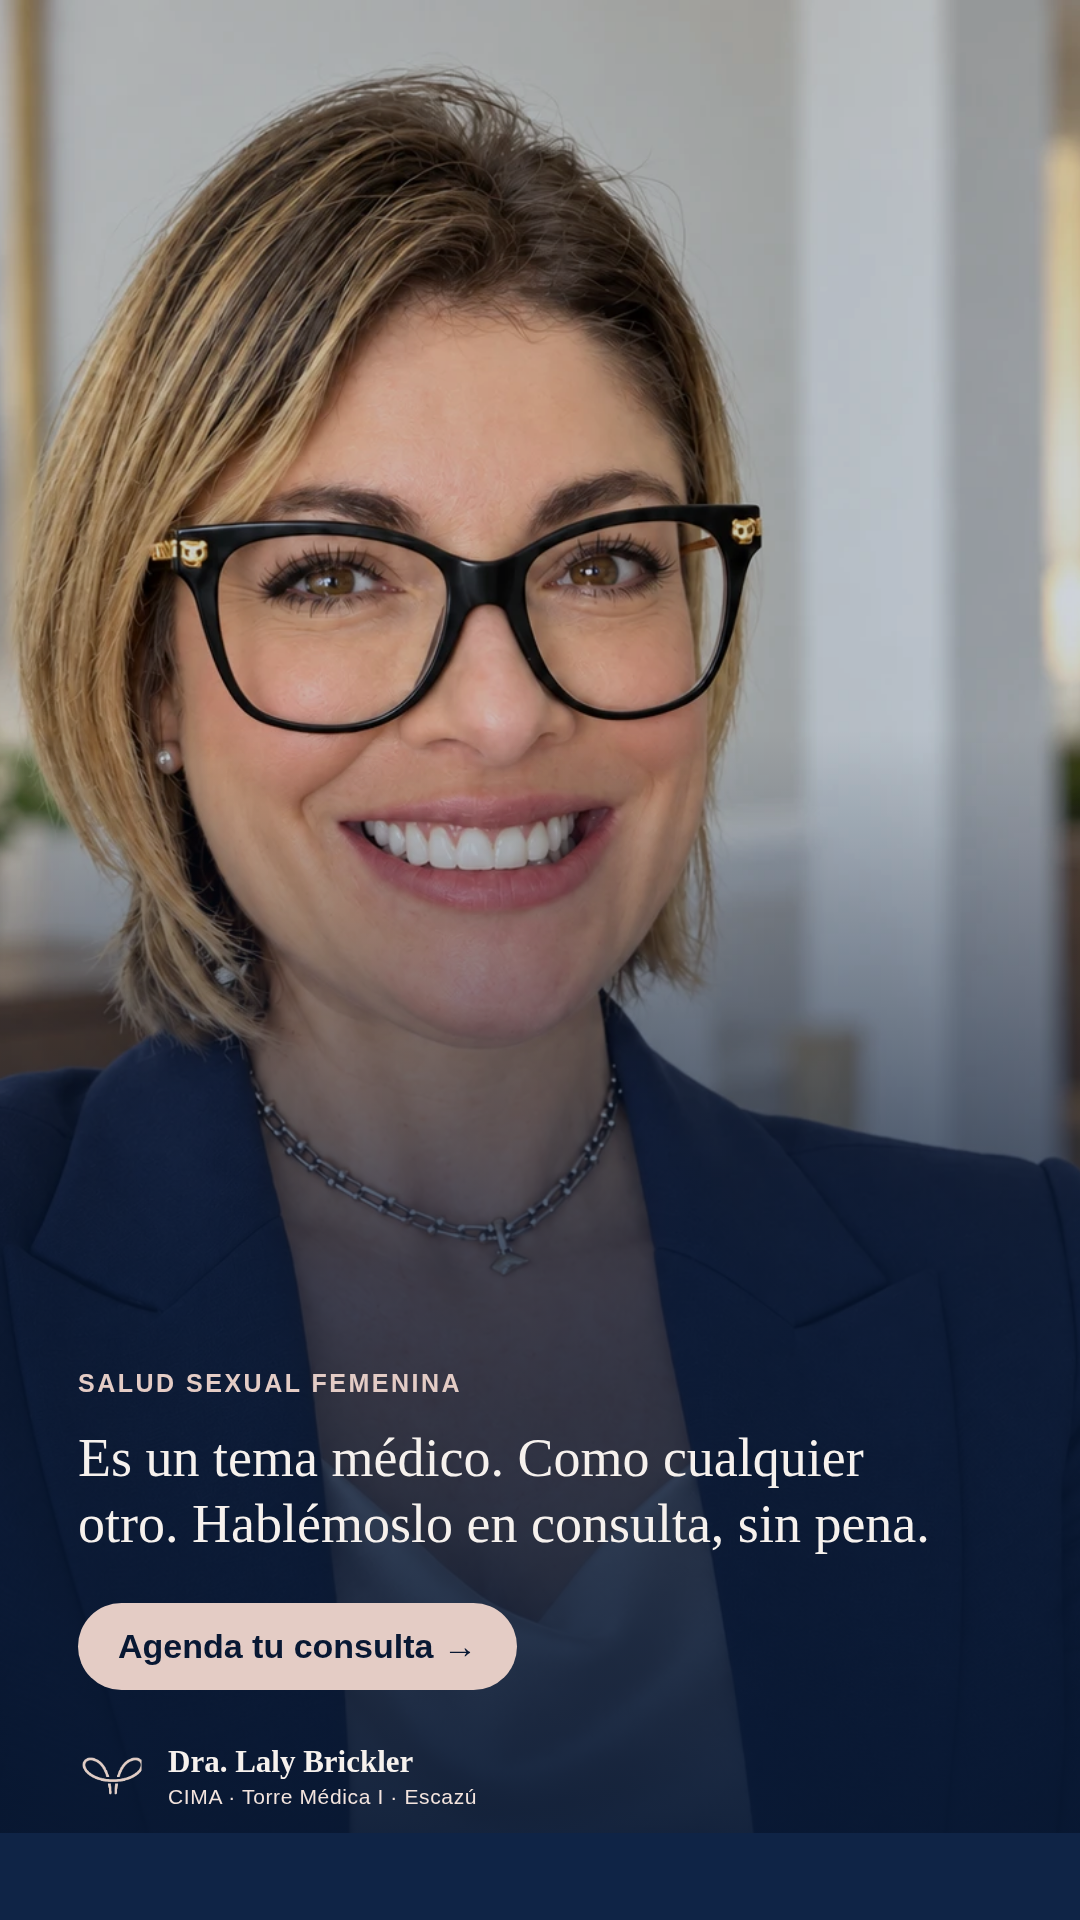
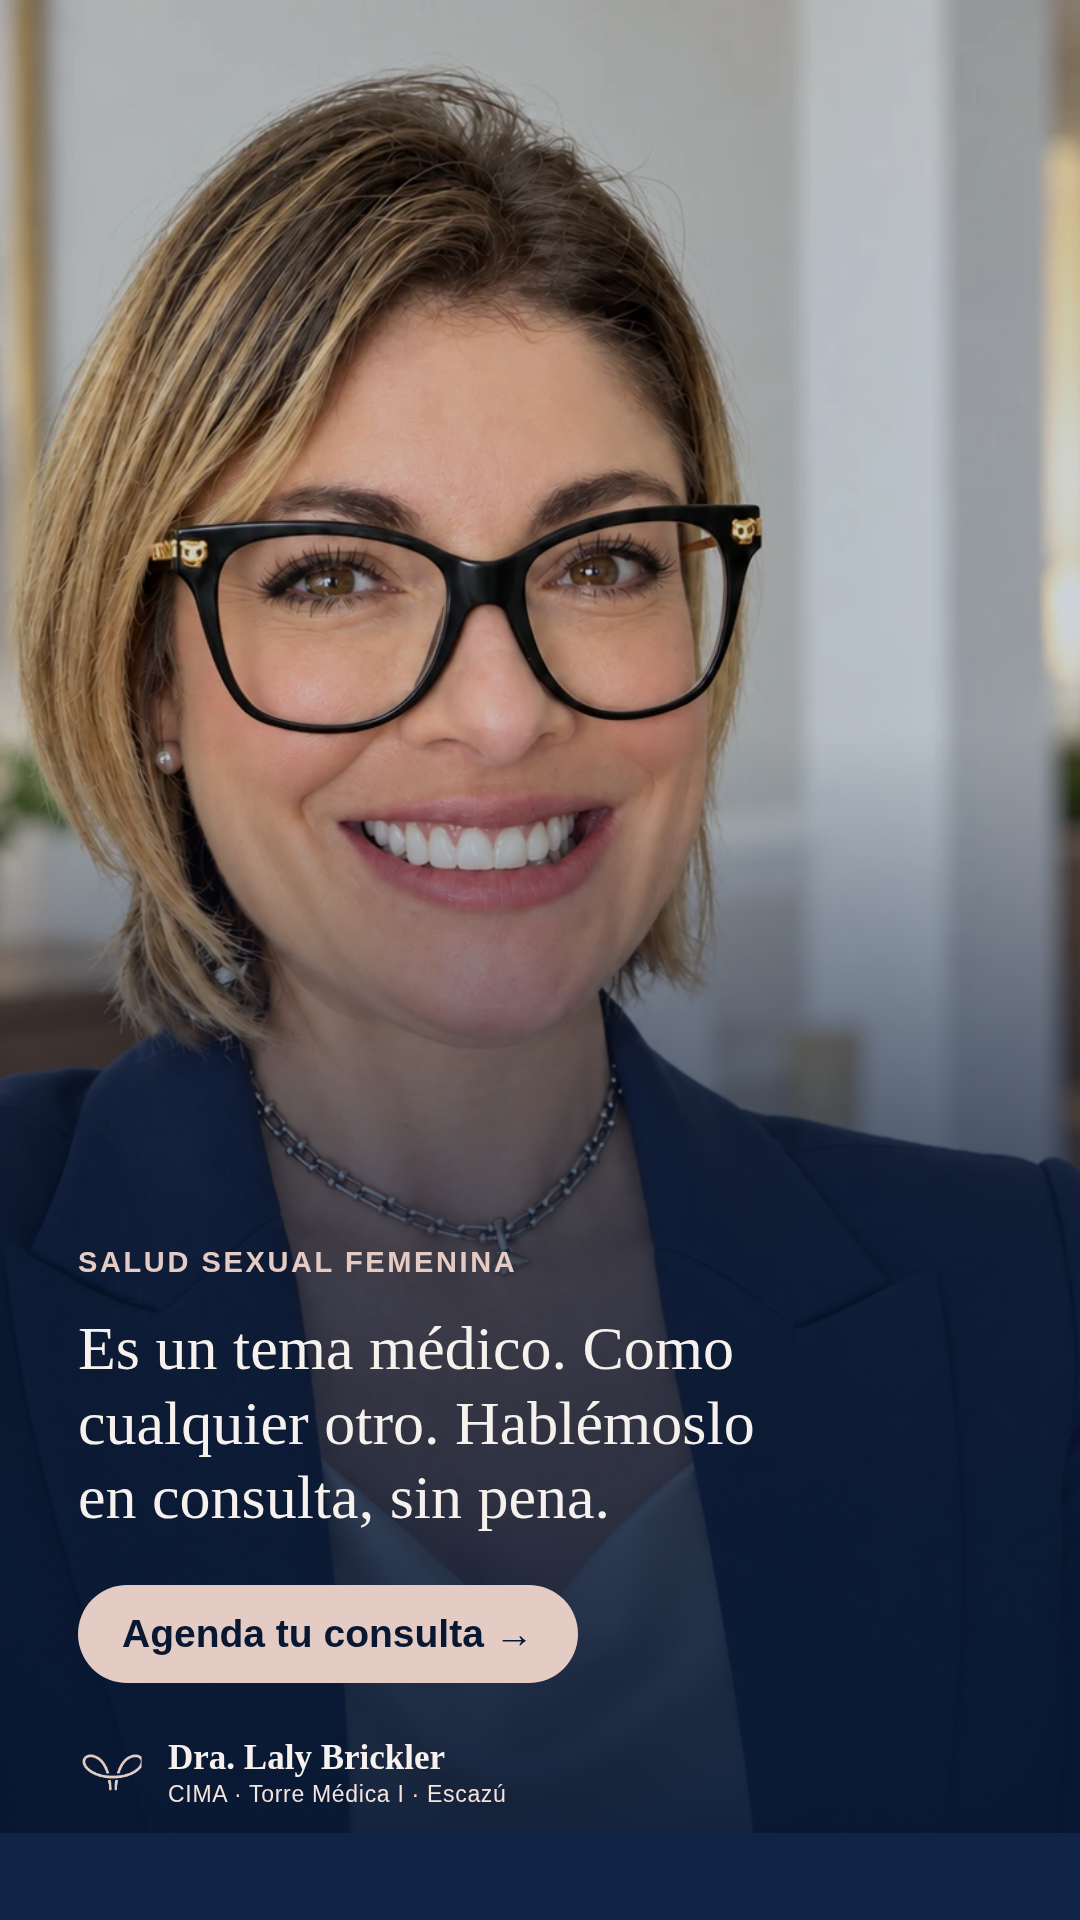
Enlarge type across the "deseo sexual sin pena" reel slides
Bump headline, eyebrow, cause-card and CTA font sizes for a more
legible read on feed-sized thumbnails, verified to still fit
within each 1080x1920 frame.

Claude-Session: https://claude.ai/code/session_01LtTLwZrPZbyahK5aD18j7d

Changed region(s): [[0.0611, 0.6562, 0.8556, 0.9375]]

diff --git a/assets/export-libido/slide-2-causas.html b/assets/export-libido/slide-2-causas.html
@@ -11,10 +11,10 @@ html,body{width:1080px;height:1920px;overflow:hidden;background:#0F2446;font-fam
 .frame-photo-top::after{content:"";position:absolute;inset:0;background:linear-gradient(180deg, rgba(8,24,51,.55) 0%, rgba(8,24,51,0) 16%, rgba(15,36,70,0) 48%, #0F2446 100%)}
 .brand{position:absolute;top:64px;left:64px;display:flex;align-items:center;gap:16px;z-index:3}
 .brand img{width:48px;height:auto;display:block}
-.brand span{font-size:21px;color:#F3E4DE;letter-spacing:.03em;font-weight:600}
+.brand span{font-size:23px;color:#F3E4DE;letter-spacing:.03em;font-weight:600}
 
 .body{position:relative;flex:1;z-index:2;display:flex;flex-direction:column;justify-content:center;align-items:center;padding:0 80px 40px;text-align:center}
-.eyebrow{color:#E4CCC5;font-size:26px;letter-spacing:.09em;text-transform:uppercase;font-weight:700;margin-bottom:30px}
+.eyebrow{color:#E4CCC5;font-size:30px;letter-spacing:.08em;text-transform:uppercase;font-weight:700;margin-bottom:34px}
 
 .causes{display:flex;flex-direction:column;gap:20px;width:100%;max-width:780px}
 .cause{
@@ -26,14 +26,14 @@ html,body{width:1080px;height:1920px;overflow:hidden;background:#0F2446;font-fam
   text-align:left;
 }
 .cause .n{
-  font-family:'Fraunces',Georgia,serif;font-weight:600;font-size:27px;
+  font-family:'Fraunces',Georgia,serif;font-weight:600;font-size:31px;
   color:#0F2446;background:#E4CCC5;
   width:50px;height:50px;border-radius:50%;
   display:flex;align-items:center;justify-content:center;flex:none;
 }
-.cause .t{font-family:'Fraunces',Georgia,serif;color:#F6F1ED;font-size:33px;font-weight:600}
+.cause .t{font-family:'Fraunces',Georgia,serif;color:#F6F1ED;font-size:39px;font-weight:600}
 
-.not-psych{margin-top:40px;font-family:'Fraunces',Georgia,serif;font-style:italic;color:#E4CCC5;font-size:27px;text-align:center;max-width:740px;line-height:1.4}
+.not-psych{margin-top:44px;font-family:'Fraunces',Georgia,serif;font-style:italic;color:#E4CCC5;font-size:31px;text-align:center;max-width:740px;line-height:1.4}
 </style></head>
 <body>
 <div class="frame">

diff --git a/assets/export-libido/slide-3-cta.html b/assets/export-libido/slide-3-cta.html
@@ -11,14 +11,14 @@ html,body{width:1080px;height:1920px;overflow:hidden;background:#0F2446;font-fam
 .photo-tint{position:absolute;inset:0;background:#0F2446;opacity:.2;mix-blend-mode:multiply;z-index:1}
 .photo-scrim{position:absolute;inset:0;background:linear-gradient(180deg, rgba(8,24,51,0) 0%, rgba(8,24,51,0) 38%, rgba(8,24,51,.7) 66%, rgba(8,24,51,.97) 100%);z-index:1}
 .body{position:absolute;inset:0;z-index:2;display:flex;flex-direction:column;justify-content:flex-end;padding:0 78px 110px}
-.eyebrow{color:#E4CCC5;font-size:25px;letter-spacing:.1em;text-transform:uppercase;font-weight:700;margin-bottom:28px}
-.cta-head{font-family:'Fraunces',Georgia,serif;color:#F6F1ED;font-size:54px;line-height:1.22;font-weight:500;max-width:880px;text-wrap:balance;margin-bottom:46px}
-.cta-pill{display:inline-flex;align-items:center;gap:16px;background:#E4CCC5;color:#081833;font-weight:700;font-size:34px;padding:24px 40px;border-radius:999px;width:fit-content}
+.eyebrow{color:#E4CCC5;font-size:29px;letter-spacing:.09em;text-transform:uppercase;font-weight:700;margin-bottom:32px}
+.cta-head{font-family:'Fraunces',Georgia,serif;color:#F6F1ED;font-size:62px;line-height:1.2;font-weight:500;max-width:900px;text-wrap:balance;margin-bottom:50px}
+.cta-pill{display:inline-flex;align-items:center;gap:16px;background:#E4CCC5;color:#081833;font-weight:700;font-size:39px;padding:27px 44px;border-radius:999px;width:fit-content}
 .cta-logo{display:flex;align-items:center;gap:22px;margin-top:52px}
 .cta-logo img{width:68px;height:auto;display:block}
 .cta-logo .ln{display:flex;flex-direction:column;line-height:1.3}
-.cta-logo .ln b{font-family:'Fraunces',Georgia,serif;color:#F6F1ED;font-size:31px;font-weight:600}
-.cta-logo .ln small{color:#F3E4DE;font-size:21px;letter-spacing:.03em}
+.cta-logo .ln b{font-family:'Fraunces',Georgia,serif;color:#F6F1ED;font-size:35px;font-weight:600}
+.cta-logo .ln small{color:#F3E4DE;font-size:23px;letter-spacing:.03em}
 </style></head>
 <body>
 <div class="frame">

diff --git a/assets/export-libido/slide-1-hook.html b/assets/export-libido/slide-1-hook.html
@@ -12,10 +12,10 @@ html,body{width:1080px;height:1920px;overflow:hidden;background:#0F2446;font-fam
 .photo-scrim{position:absolute;inset:0;background:linear-gradient(180deg, rgba(8,24,51,0) 0%, rgba(8,24,51,0) 32%, rgba(8,24,51,.66) 62%, rgba(8,24,51,.97) 100%);z-index:1}
 .brand{position:absolute;top:64px;left:64px;display:flex;align-items:center;gap:16px;z-index:3}
 .brand img{width:48px;height:auto;display:block}
-.brand span{font-size:21px;color:#F3E4DE;letter-spacing:.03em;font-weight:600}
+.brand span{font-size:23px;color:#F3E4DE;letter-spacing:.03em;font-weight:600}
 .body{position:absolute;inset:0;z-index:2;display:flex;flex-direction:column;justify-content:flex-end;align-items:center;padding:0 80px 130px;text-align:center}
-.headline{font-family:'Fraunces',Georgia,serif;font-weight:600;color:#E4CCC5;font-size:92px;line-height:1.04;margin-bottom:36px}
-.sub{font-family:'Fraunces',Georgia,serif;font-weight:500;color:#F6F1ED;font-size:38px;line-height:1.32;max-width:840px;text-wrap:balance}
+.headline{font-family:'Fraunces',Georgia,serif;font-weight:600;color:#E4CCC5;font-size:106px;line-height:1.03;margin-bottom:40px}
+.sub{font-family:'Fraunces',Georgia,serif;font-weight:500;color:#F6F1ED;font-size:44px;line-height:1.3;max-width:860px;text-wrap:balance}
 </style></head>
 <body>
 <div class="frame">
